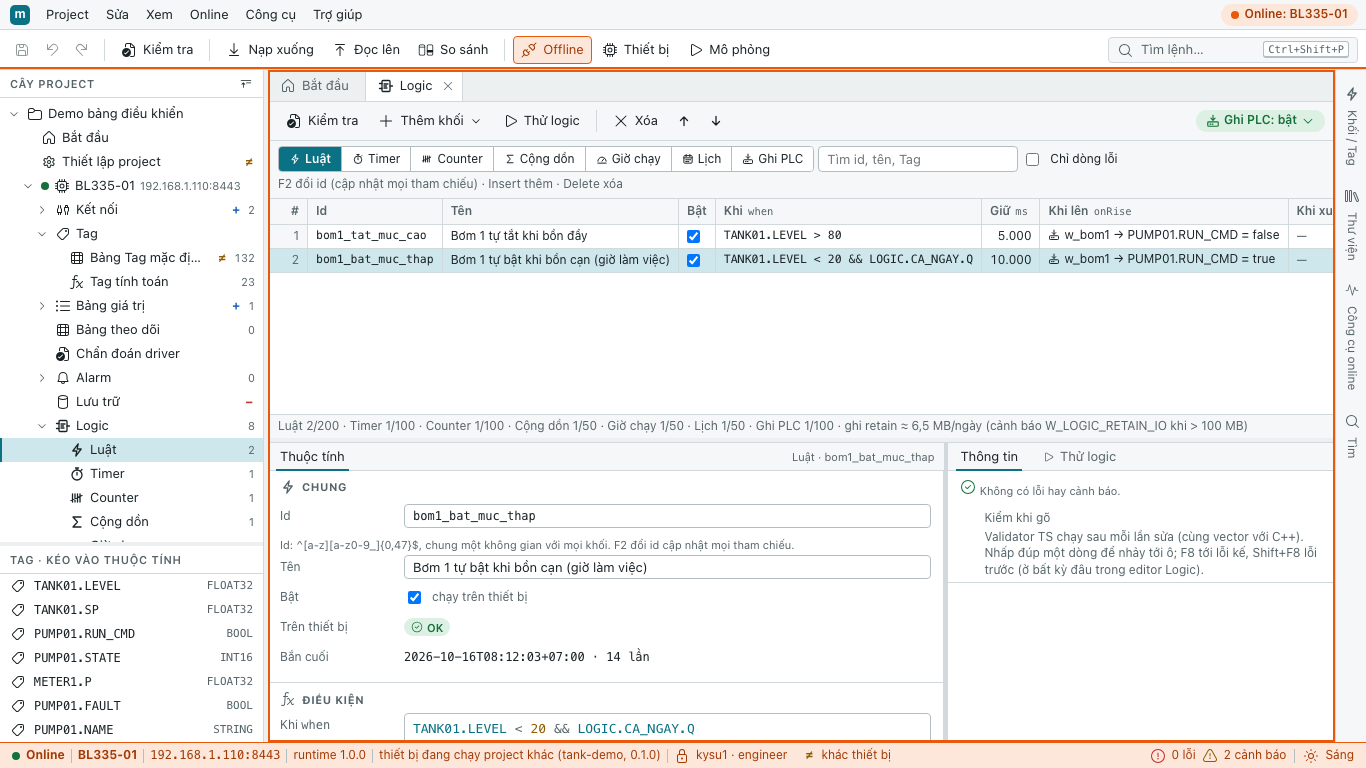
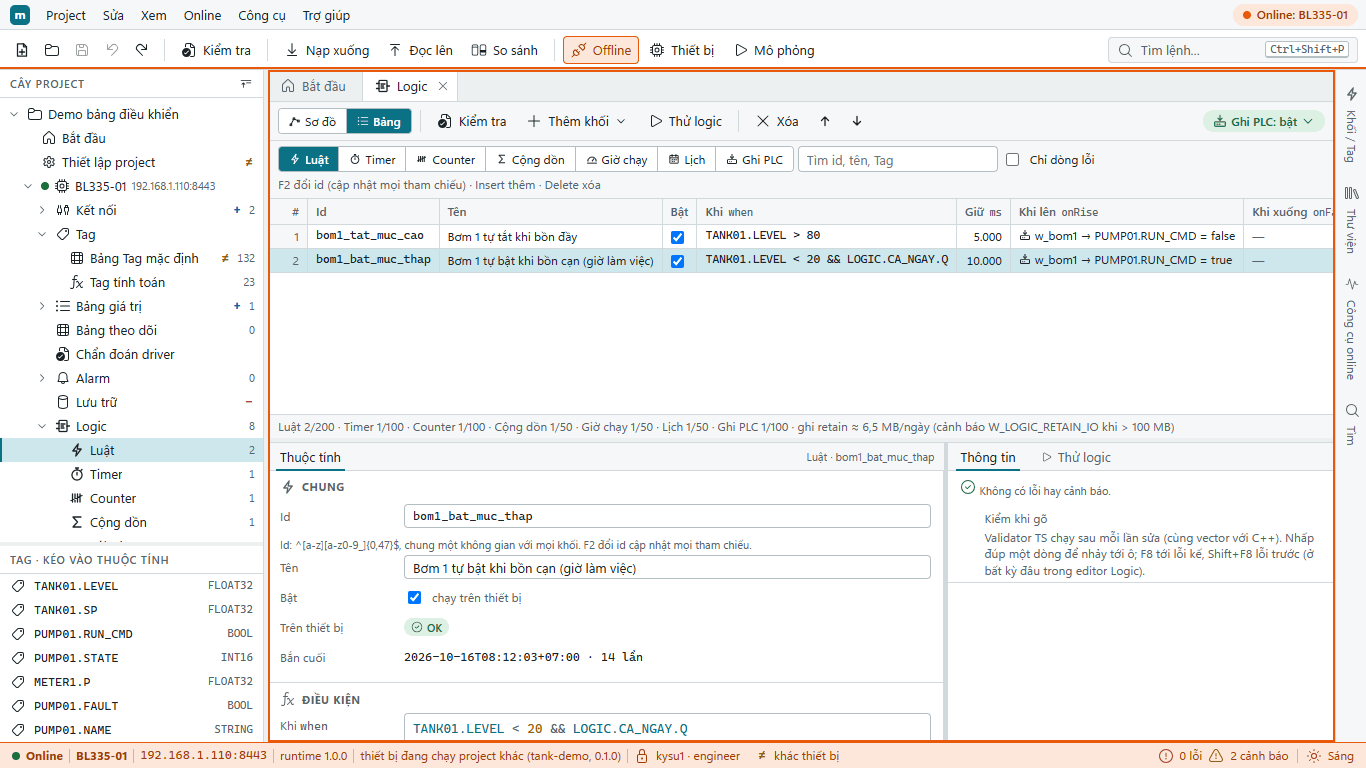
docs(015): hướng dẫn kỹ sư mục Logic (sơ đồ khối), ảnh sơ đồ thường / Thử logic / lỗi qua docs-screenshots; e2e Logic cũ chuyển sang Bảng

diff --git a/apps/studio/src/ui/logic/logic-diagram.css b/apps/studio/src/ui/logic/logic-diagram.css
@@ -486,7 +486,7 @@
   cursor: default;
   opacity: 0.6;
 }
-@container lgd (max-height: 280px) {
+@container lgd (max-height: 330px) {
   .lgd-mini {
     display: none;
   }

diff --git a/docs/user/engineer-guide.md b/docs/user/engineer-guide.md
@@ -310,7 +310,33 @@ Cần project định dạng 1.0.0 (mục 3); project cũ hơn thì các lệnh 
 
 Logic chạy trên runtime 1.0.0, theo chu kỳ quét (`logic.scanMs`, mặc định 100 ms). Mọi khối nằm trong `logic.json`, sửa ở nút **Logic** trên cây (các nhóm Luật, Timer, Counter, Cộng dồn, Giờ chạy, Lịch, Ghi PLC; tất cả mở chung tab "Logic"). Project chưa có logic: bấm **Tạo logic.json**. Project định dạng cũ hơn 1.0.0: editor báo "Logic cần project định dạng 1.0.0", nâng cấp project trước (mục 3).
 
-Thao tác trong tab: **Thêm khối** (Insert), **Xóa** (Delete), **Chuyển lên**/**Chuyển xuống**, F2 đổi id (Studio cập nhật mọi tham chiếu), ô "Tìm id, tên, Tag", ô "Chỉ dòng lỗi", **Kiểm tra** (F7). Dock dưới có **Inspector** (trường của khối đang chọn), **Thông tin** (lỗi và cảnh báo, nhấp đúp để nhảy tới ô; F8 / Shift+F8 tới lỗi kế / trước ở bất kỳ đâu trong editor) và **Thử logic**. Task card **Khối / Tag** bên phải: kéo một khối vào bảng (hoặc nhấp đúp) để thêm, kéo một Tag vào ô biểu thức. Giới hạn: 200 luật, 100 timer, 100 counter, 50 cộng dồn, 50 giờ chạy, 50 lịch, 100 mục ghi (`E_LOGIC_LIMIT`).
+Tab Logic có hai khung nhìn của cùng `logic.json`, chọn bằng nút **Sơ đồ** / **Bảng** đầu thanh công cụ (Studio nhớ lựa chọn trên máy): **Sơ đồ** (mặc định, mục 9.1) vẽ khối và dây nối kiểu FBD; **Bảng** liệt kê khối theo nhóm như trước (mục 9.2).
+
+### 9.1. Sơ đồ khối
+
+Mỗi khối là một nút: đầu khối có loại (Luật, TON/TOF/TP, Counter, Cộng dồn, Giờ chạy, Lịch, Ghi PLC) và id; bên trái là cổng vào (ô biểu thức: `when`, `in`, `up`, `down`, `reset`, `source`, `run`), bên phải là cổng ra (Tag logic `q`, `et`, `value`, `reached`, `total`…; luật có ↑ Khi lên và ↓ Khi xuống); dòng cuối tóm tắt tham số (giữ 5 s, PT 1 min, đặt trước 1000…). Biểu thức của cổng vào được vẽ thành cổng logic: `&&` là **AND**, `||` là **OR**, `!` là **NOT**, so sánh là ô "> 80", "< 20"…; phép tính khác (số học, hàm) là ô biểu thức. Tag đầu vào là hộp tên Tag gắn vào chân (đi theo khối). Đầu ra của khối dùng ở khối khác nối bằng dây liền; hành động của luật tới mục **Ghi PLC** hoặc Tag đích là dây đứt màu hổ phách. Chấm cổng xanh dương là BOOL, tím là số.
+
+Sơ đồ không đổi định dạng `logic.json`. Vị trí khối lưu riêng trong tệp `logic.layout.json` cạnh `logic.json` (chỉ Studio dùng, không nạp xuống thiết bị); thiếu tệp này thì Studio tự sắp xếp.
+
+- **Thêm khối**: kéo khối từ task card **Khối / Tag** vào sơ đồ (đặt ở chỗ thả), hoặc **Thêm khối** / Insert (đặt giữa vùng nhìn).
+- **Dời khối**: kéo khối (căn lưới 16 px, giữ Alt để dời tự do) hoặc phím mũi tên (16 px, Shift: 64 px). **Tự sắp xếp** xếp lại mọi khối từ trái sang phải theo phụ thuộc.
+- **Nối dây**: kéo từ cổng ra (Tag hoặc đầu ra khối) tới cổng vào hoặc chân của cổng logic: Studio thay đúng phần biểu thức đó bằng tên Tag. Kéo ↑/↓ của luật tới mục Ghi PLC thêm hành động Ghi PLC (giá trị cho phép đầu tiên), tới Tag đích thêm Đặt Tag `true`. Kéo một Tag từ task card thả vào cổng vào cũng nối. Khi đang kéo, cổng khác kiểu mờ đi.
+- **Cổng logic**: kéo **AND**, **OR**, **NOT**, **So sánh** ở task card thả vào một cổng vào để bọc biểu thức hiện có (ví dụ `(x) && true`), rồi nối Tag vào chân còn trống.
+- **Xóa dây**: nhấp dây rồi Delete (bỏ toán hạng khỏi AND/OR, cổng vào của khối thành trống). **Xóa khối**: Delete; **Nhân bản**: Ctrl+D (đầu ra theo id mới). Mỗi thao tác hoàn tác được bằng một lần Ctrl+Z.
+- Nhấp một khối (hoặc Tab tới nó) để sửa ở **Inspector** như ở Bảng; Enter đưa con trỏ vào ô Id. Nhấp cổng logic hay hộp Tag đưa con trỏ vào đúng ô biểu thức.
+- **Zoom**: Ctrl + lăn chuột, nút − / + (phím − +), **Vừa khung** (phím 0), **100 %**; kéo nền hoặc lăn chuột để dời. Bản đồ nhỏ ở góc phải dưới: nhấp để tới vùng đó.
+- **Lỗi** của bộ kiểm tra hiện ngay trên sơ đồ: khối có lỗi viền đỏ, cổng vào và dây của biểu thức lỗi màu đỏ, Tag không có trong project là hộp viền đứt đỏ; danh sách vẫn ở tab **Thông tin**, nhấp đúp một dòng để chọn khối trên sơ đồ.
+- **Thử logic** và **Online**: sơ đồ hiện giá trị sống. Dây và cổng BOOL đang TRUE màu xanh lá, giá trị số ghi cạnh cổng ra, khối vừa bắn sáng lên, timer đang đếm hiện "còn x s", mục Ghi PLC hiện giá trị Tag đích; mỗi khối có chip trạng thái (OK, SUSPENDED, THROTTLED, DISABLED; Online kèm số lần bắn).
+
+![Sơ đồ khối của tab Logic: Tag mức bồn vào cổng "> 80" và "< 20", cổng AND với đầu ra của lịch ca ngày, hai luật bơm nối dây đứt tới mục Ghi PLC; Inspector của luật đang chọn; task card Khối / Tag có thêm Cổng logic](img/eng-logic-so-do.png)
+
+![Sơ đồ khi Thử logic: mức bồn 85, cổng "> 80" và dây xanh lá, luật tắt bơm vừa bắn sáng lên, mục Ghi PLC hiện "= false"; chip "Thử logic · t = 6 s" trên thanh công cụ của sơ đồ](img/eng-logic-so-do-thu.png)
+
+![Sơ đồ có lỗi: Tag số PUMP01.FLOW nối vào điều kiện BOOL và Tag TANK09.LEVEL không có trong project: hộp Tag, dây, cổng và viền khối đỏ; tab Thông tin liệt kê E_LOGIC_TYPE và E_LOGIC_TAG_REF](img/eng-logic-so-do-loi.png)
+
+### 9.2. Bảng và các khối
+
+Thao tác ở Bảng: **Thêm khối** (Insert), **Xóa** (Delete), **Chuyển lên**/**Chuyển xuống**, F2 đổi id (Studio cập nhật mọi tham chiếu), ô "Tìm id, tên, Tag", ô "Chỉ dòng lỗi", **Kiểm tra** (F7). Dock dưới có **Inspector** (trường của khối đang chọn), **Thông tin** (lỗi và cảnh báo, nhấp đúp để nhảy tới ô; F8 / Shift+F8 tới lỗi kế / trước ở bất kỳ đâu trong editor) và **Thử logic**. Task card **Khối / Tag** bên phải: kéo một khối vào bảng (hoặc nhấp đúp) để thêm, kéo một Tag vào ô biểu thức. Giới hạn: 200 luật, 100 timer, 100 counter, 50 cộng dồn, 50 giờ chạy, 50 lịch, 100 mục ghi (`E_LOGIC_LIMIT`).
 
 | Khối | Dùng khi | Trường chính |
 |---|---|---|
